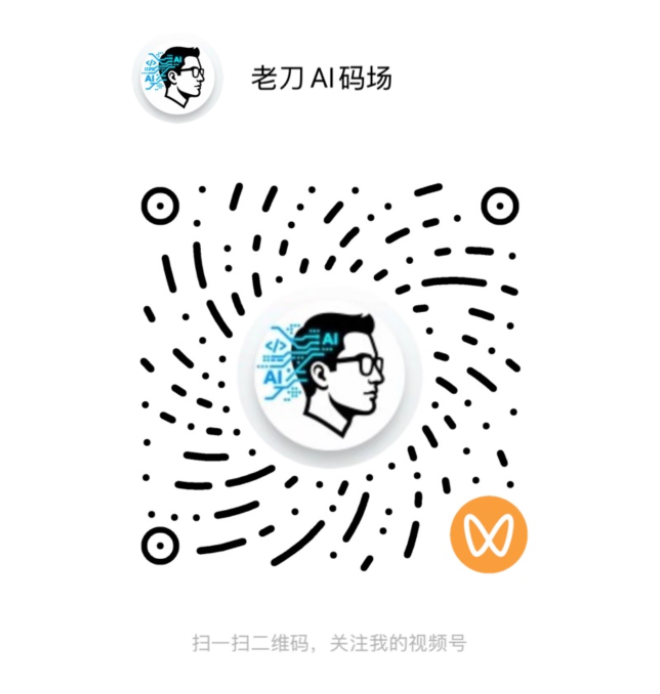
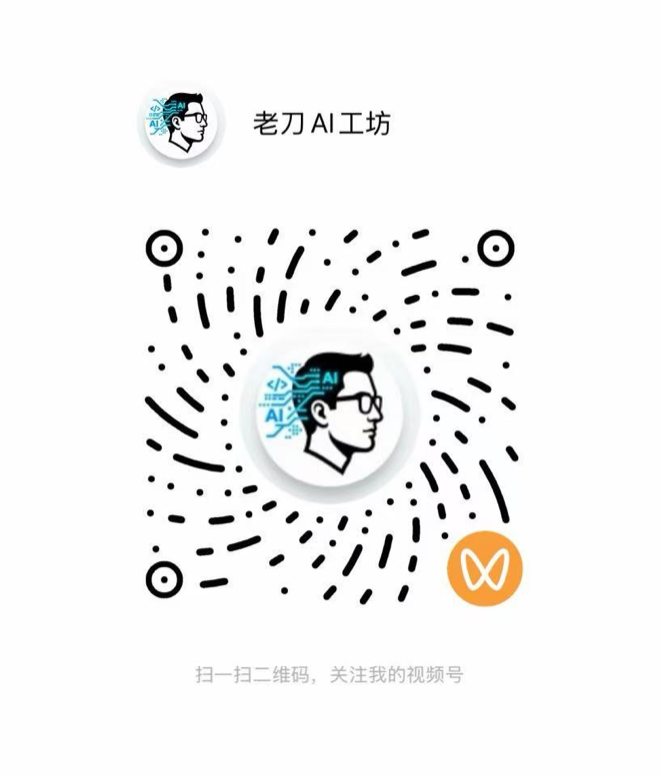
fix(brand): 替换视频号二维码为老刀AI工坊，二维码高度按比例显示
Generated with Claude Code

diff --git a/layouts/partials/wechat-modal.html b/layouts/partials/wechat-modal.html
@@ -19,7 +19,7 @@
 <dialog id="wechat-ch-modal" class="wechat-qr-modal" aria-labelledby="wechat-ch-modal-title">
   <button class="wechat-qr-close" type="button" aria-label="关闭">×</button>
   <div id="wechat-ch-modal-title" class="wechat-qr-title">微信视频号「{{ $ch }}」</div>
-  <img class="wechat-qr-img" src="{{ "/img/wechat-ch-qr.png" | relURL }}" alt="微信视频号 {{ $ch }} 二维码" width="240" height="240" loading="lazy">
+  <img class="wechat-qr-img" src="{{ "/img/wechat-ch-qr.png" | relURL }}" alt="微信视频号 {{ $ch }} 二维码" width="240" height="282" loading="lazy">
   <div class="wechat-qr-hint">微信扫码关注</div>
 </dialog>
 {{- end -}}

diff --git a/assets/css/editorial.css b/assets/css/editorial.css
@@ -717,7 +717,8 @@ html {
 }
 .wechat-qr-img {
   width: 240px;
-  height: 240px;
+  /* 高度按原图比例：视频号二维码图带账号名，不是正方形，固定 240px 会压扁 */
+  height: auto;
   display: block;
   margin: 0 auto;
   border-radius: 6px;
